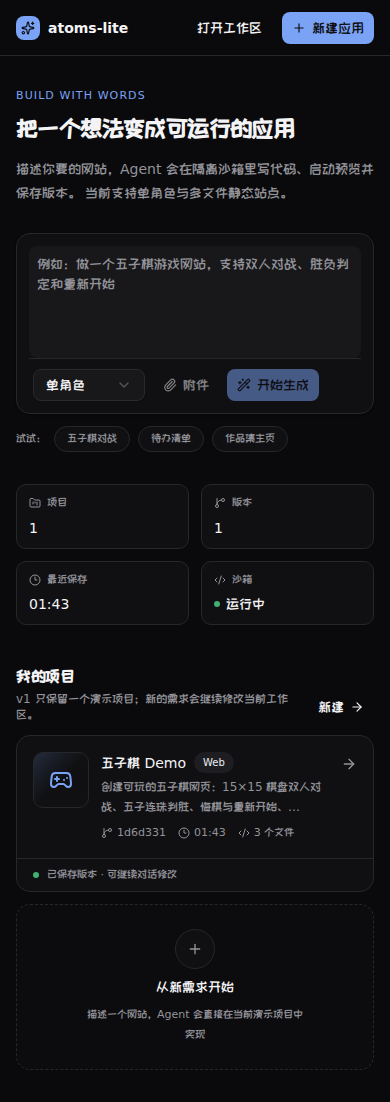
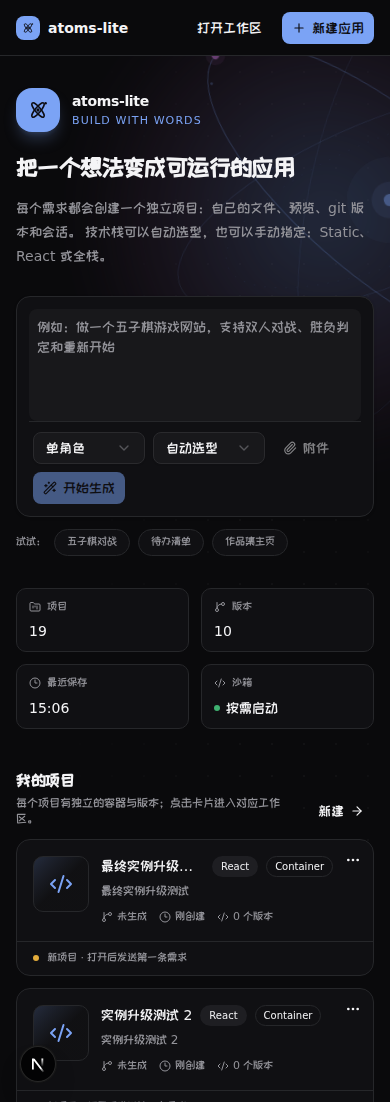
feat: add atom hero background and brand mark

diff --git a/apps/web/components/dashboard/atom-hero.tsx b/apps/web/components/dashboard/atom-hero.tsx
@@ -1,0 +1,94 @@
+const ORBIT = {
+  rx: 300,
+  ry: 108,
+};
+
+/**
+ * 首页背景：原子轨道 + 粒子点阵。
+ * 纯 SVG / CSS，无图片请求；动画在 prefers-reduced-motion 下关闭。
+ */
+export function AtomHero() {
+  return (
+    <div
+      aria-hidden="true"
+      className="pointer-events-none absolute inset-0 -z-10 overflow-hidden"
+    >
+      <div className="atom-grid absolute inset-0" />
+      <div className="atom-halo" />
+
+      <svg
+        className="atom-art"
+        viewBox="0 0 720 720"
+        fill="none"
+        focusable="false"
+      >
+        <g className="atom-rotor text-primary">
+          <g transform="rotate(-28 360 360)">
+            <ellipse
+              cx="360"
+              cy="360"
+              rx={ORBIT.rx}
+              ry={ORBIT.ry}
+              stroke="currentColor"
+              strokeOpacity="0.22"
+              strokeWidth="1.2"
+            />
+            <ellipse
+              cx="360"
+              cy="360"
+              rx="232"
+              ry="82"
+              stroke="currentColor"
+              strokeOpacity="0.16"
+              strokeWidth="1.1"
+              strokeDasharray="2 12"
+            />
+            <g className="text-success">
+              <circle cx="660" cy="360" r="14" fill="currentColor" opacity="0.14" />
+              <circle cx="660" cy="360" r="5.5" fill="currentColor" />
+            </g>
+          </g>
+
+          <g transform="rotate(34 360 360)">
+            <ellipse
+              cx="360"
+              cy="360"
+              rx={ORBIT.rx}
+              ry={ORBIT.ry}
+              stroke="currentColor"
+              strokeOpacity="0.46"
+              strokeWidth="1.3"
+            />
+            <g className="text-chart-4">
+              <circle cx="60" cy="360" r="13" fill="currentColor" opacity="0.14" />
+              <circle cx="60" cy="360" r="5" fill="currentColor" />
+            </g>
+          </g>
+
+          <g transform="rotate(96 360 360)">
+            <ellipse
+              cx="360"
+              cy="360"
+              rx={ORBIT.rx}
+              ry={ORBIT.ry}
+              stroke="currentColor"
+              strokeOpacity="0.18"
+              strokeWidth="1.1"
+            />
+          </g>
+
+          <g className="atom-nucleus">
+            <circle cx="360" cy="360" r="52" fill="currentColor" opacity="0.07" />
+            <circle cx="360" cy="360" r="22" fill="currentColor" opacity="0.16" />
+            <circle cx="360" cy="360" r="7.5" fill="currentColor" opacity="0.9" />
+          </g>
+
+          <circle cx="205" cy="565" r="2.4" fill="currentColor" opacity="0.5" />
+          <circle cx="560" cy="120" r="2" fill="currentColor" opacity="0.4" />
+          <circle cx="110" cy="230" r="1.8" fill="currentColor" opacity="0.45" />
+          <circle cx="620" cy="560" r="2.2" fill="currentColor" opacity="0.4" />
+        </g>
+      </svg>
+    </div>
+  );
+}

diff --git a/apps/web/app/globals.css b/apps/web/app/globals.css
@@ -169,3 +169,106 @@
   opacity: 0.5;
   user-select: none;
 }
+
+/* ---------------------------------------------------------------
+ * 首页原子背景：轨道缓慢旋转，粒子点阵从中心向右上淡出
+ * --------------------------------------------------------------- */
+
+.atom-grid {
+  background-image: radial-gradient(
+    circle,
+    color-mix(in oklab, var(--foreground) 14%, transparent) 1px,
+    transparent 1px
+  );
+  background-size: 2rem 2rem;
+  mask-image: radial-gradient(
+    ellipse 75% 65% at 72% 24%,
+    black,
+    transparent 78%
+  );
+  opacity: 0.5;
+}
+
+.atom-halo {
+  position: absolute;
+  top: -14rem;
+  right: -2rem;
+  width: 42rem;
+  height: 42rem;
+  border-radius: 50%;
+  background: radial-gradient(
+    circle at 50% 50%,
+    color-mix(in oklab, var(--primary) 30%, transparent),
+    color-mix(in oklab, var(--chart-4) 10%, transparent) 48%,
+    transparent 70%
+  );
+  filter: blur(26px);
+}
+
+.atom-art {
+  position: absolute;
+  top: -16rem;
+  right: -10rem;
+  width: 47.5rem;
+  height: 47.5rem;
+  opacity: 0.9;
+}
+
+.atom-rotor {
+  transform-box: view-box;
+  transform-origin: center;
+  animation: atom-spin 160s linear infinite;
+}
+
+.atom-nucleus {
+  transform-box: fill-box;
+  transform-origin: center;
+  animation: atom-pulse 7s ease-in-out infinite;
+}
+
+@keyframes atom-spin {
+  to {
+    transform: rotate(360deg);
+  }
+}
+
+@keyframes atom-pulse {
+  0%,
+  100% {
+    opacity: 0.75;
+    transform: scale(1);
+  }
+  50% {
+    opacity: 1;
+    transform: scale(1.12);
+  }
+}
+
+@media (max-width: 767px) {
+  .atom-grid {
+    opacity: 0.3;
+  }
+
+  .atom-halo {
+    top: -6rem;
+    right: -12rem;
+    width: 32rem;
+    height: 32rem;
+    opacity: 0.7;
+  }
+
+  .atom-art {
+    top: -8rem;
+    right: -17rem;
+    width: 34rem;
+    height: 34rem;
+    opacity: 0.5;
+  }
+}
+
+@media (prefers-reduced-motion: reduce) {
+  .atom-rotor,
+  .atom-nucleus {
+    animation: none;
+  }
+}

diff --git a/apps/web/components/dashboard/dashboard.tsx b/apps/web/components/dashboard/dashboard.tsx
@@ -21,6 +21,7 @@ import {
   Trash2,
   WandSparkles,
 } from "lucide-react";
+import { AtomHero } from "@/components/dashboard/atom-hero";
 import { BrandMark } from "@/components/brand-mark";
 import { Badge } from "@/components/ui/badge";
 import { Button } from "@/components/ui/button";
@@ -259,12 +260,23 @@ export function Dashboard() {
           </div>
         </header>
 
-        <main className="mx-auto w-full max-w-5xl flex-1 px-4 py-8 lg:px-8 lg:py-12">
+        <main className="relative isolate mx-auto w-full max-w-5xl flex-1 px-4 py-8 lg:px-8 lg:py-12">
+          <AtomHero />
           <div className="max-w-2xl">
-            <p className="text-2xs font-medium tracking-widest text-primary uppercase">
-              Build with words
-            </p>
-            <h1 className="mt-2 text-2xl font-semibold tracking-tight sm:text-3xl">
+            <div className="mb-5 flex items-center gap-3">
+              <span className="grid size-11 place-items-center rounded-2xl bg-primary text-primary-foreground shadow-lg shadow-primary/25">
+                <BrandMark className="size-6" />
+              </span>
+              <div>
+                <p className="text-sm font-semibold tracking-tight">
+                  atoms-lite
+                </p>
+                <p className="mt-0.5 text-2xs font-medium tracking-widest text-primary uppercase">
+                  Build with words
+                </p>
+              </div>
+            </div>
+            <h1 className="text-2xl font-semibold tracking-tight sm:text-3xl">
               把一个想法变成可运行的应用
             </h1>
             <p className="mt-3 text-sm leading-6 text-muted-foreground">
